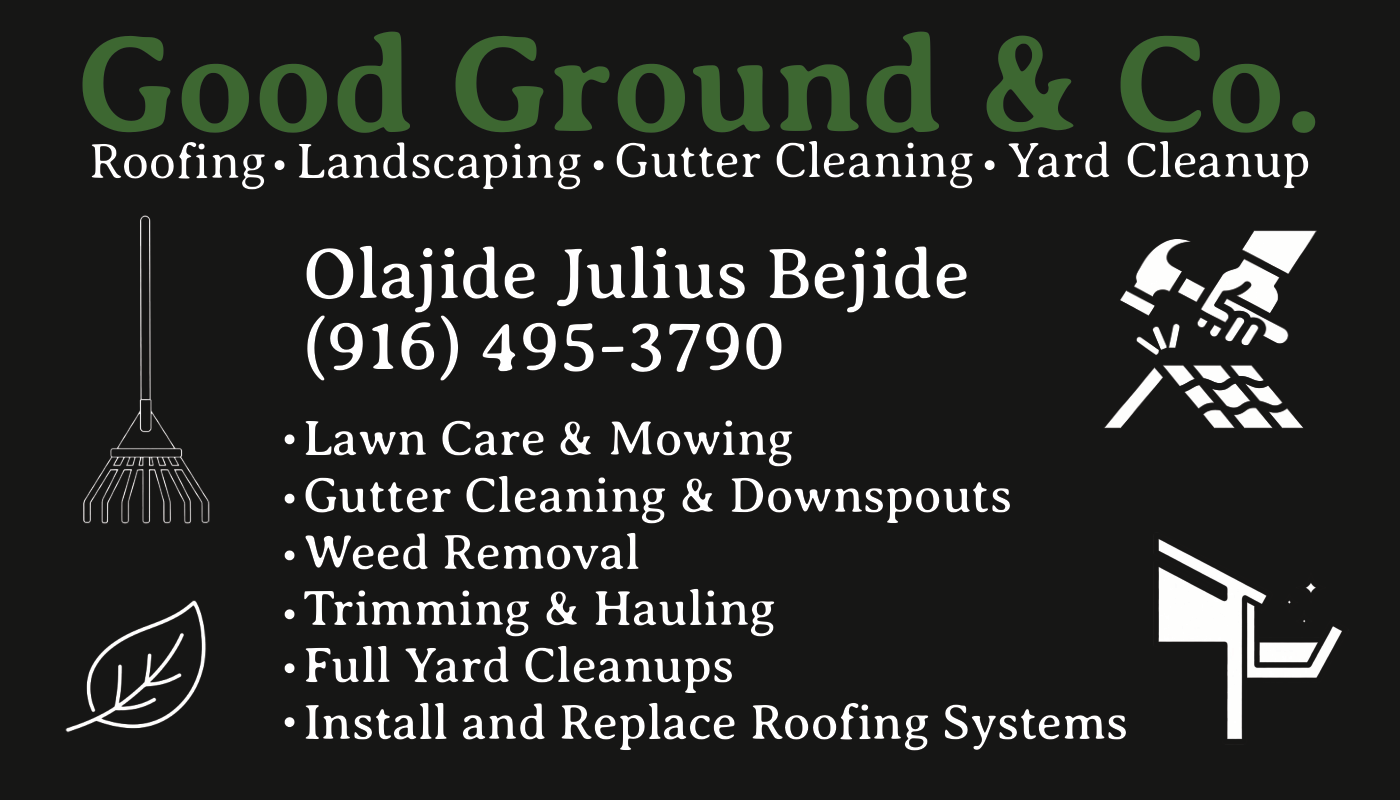
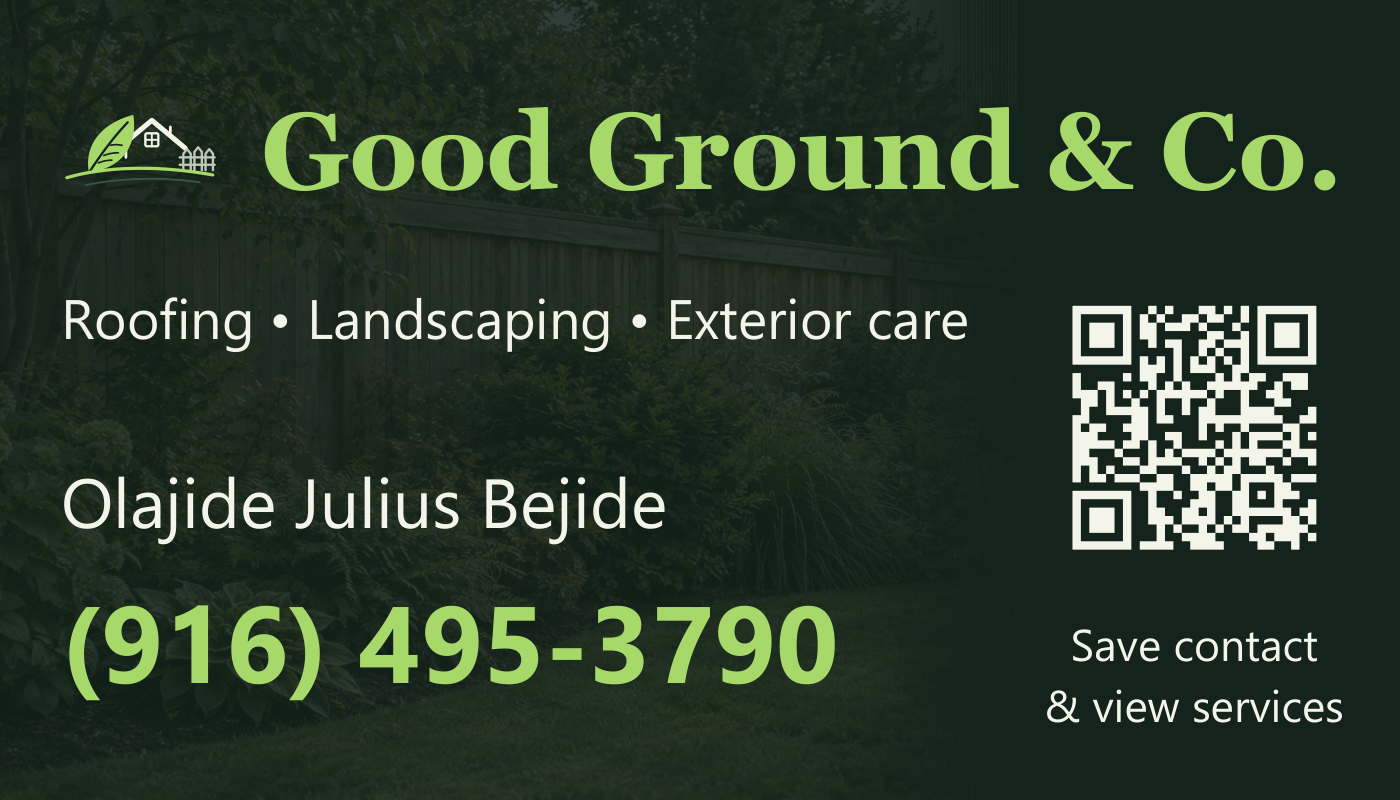
Good Ground: v6 card front and back from the storewebsite card builder, not the old Olajide proof

diff --git a/src/content/print/06-good-ground-and-co.md b/src/content/print/06-good-ground-and-co.md
@@ -30,12 +30,12 @@ viewer:
       filename: good-ground-and-co-front.png
       width: 1400
       height: 800
-      alt: Dark green card front with the company name, the owner's name and phone over a garden photograph
+      alt: Dark card front with the company name, the owner's name and phone, services line and a QR code over a garden photograph
       focalPoint: { x: 50, y: 50 }
       sourceNote: privacy-reviewed export
       clearance: approved
       clearanceDate: '2026-10-09'
-    alt: Dark green card front with the company name, the owner's name and phone over a garden photograph
+    alt: Dark card front with the company name, the owner's name and phone, services line and a QR code over a garden photograph
   - image:
       source: src/assets/print/good-ground-and-co.png
       filename: good-ground-and-co.png
